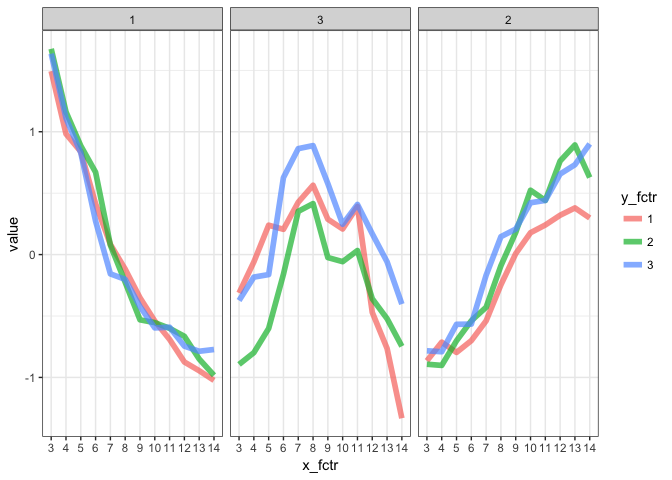
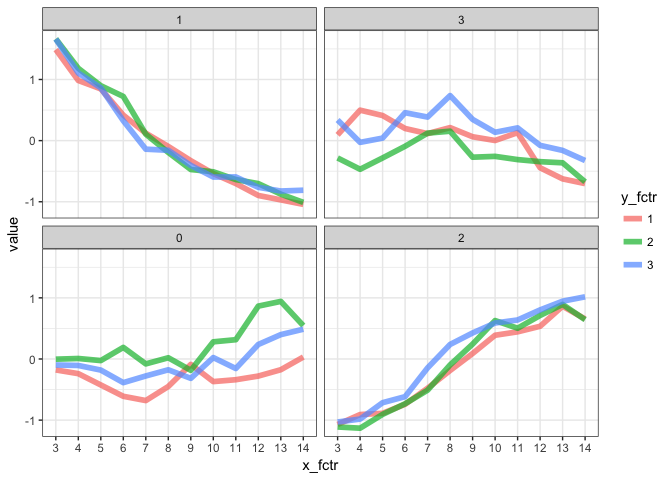
170929

diff --git a/README.md b/README.md
@@ -5,12 +5,9 @@ cornet
 ------------
 
 ``` r
-#install.packages("devtools") # もしなければ
+install.packages("devtools") 
 devtools::install_github("shkonishi/cornet")
 ```
-
-    ## Skipping install of 'cornet' from a github remote, the SHA1 (16ffbf21) has not changed since last install.
-    ##   Use `force = TRUE` to force installation
 
 関数及び外部データ一覧
 ----------------------
@@ -51,12 +48,9 @@ dat[1:6,1:6]; dim(dat)
 
 ``` r
 res <- cornet::cluster_mat(dat = dat, distm = "spearman", clm = "average",
-                           column = 5:ncol(dat), method_dycut = "hybrid",
+                           column = 5:ncol(dat), method_dycut = "tree",
                            x_fctr = dat$days, y_fctr = dat$runs, rep_fctr = dat$reps)
 ```
-
-    ##  ..cutHeight not given, setting it to 268000  ===>  99% of the (truncated) height range in dendro.
-    ##  ..done.
 
 ![](README_files/figure-markdown_github-ascii_identifiers/unnamed-chunk-4-1.png)
 
@@ -66,16 +60,16 @@ head(res$dynamic_cut)
 ```
 
     ## gene266 gene372 gene572 gene906 gene201 gene894 
-    ##       1       2       2       2       1       1
+    ##       3       2       2       2       1       1
 
 ``` r
 # クラスタ別のデータフレーム
 sapply(res$cluster_dat, dim)
 ```
 
-    ##        1   2   3
-    ## [1,] 108 108 108
-    ## [2,]  96  82  22
+    ##        1   3   0   2
+    ## [1,] 108 108 108 108
+    ## [2,]  87  31  28  54
 
 ``` r
 # クラスタ別の
@@ -104,51 +98,67 @@ lapply(res.clm, function(x)x[1:6,])
 
     ## $`1`
     ##         x_id    y_id mic        mas mev      mcn      micr2      gmic
-    ## 4425 gene204 gene655   1 0.03285807   1 2.000000 0.05284526 1.0000000
-    ## 4485  gene67 gene519   1 0.01908699   1 3.000000 0.05036932 0.9935214
-    ## 4460 gene179 gene519   1 0.04402342   1 3.000000 0.06798504 0.9942813
-    ## 4470 gene789  gene67   1 0.04047976   1 3.584963 0.05791981 0.9806749
-    ## 4457 gene179  gene67   1 0.01189086   1 3.000000 0.09046485 0.9930227
-    ## 4484  gene67 gene371   1 0.09622638   1 3.000000 0.02788684 0.9865954
+    ## 3714 gene204 gene655   1 0.03285807   1 2.000000 0.05284526 1.0000000
+    ## 3738  gene67 gene519   1 0.01908699   1 3.000000 0.05036932 0.9935214
+    ## 3731 gene179 gene519   1 0.04402342   1 3.000000 0.06798504 0.9942813
+    ## 3732 gene789  gene67   1 0.04047976   1 3.584963 0.05791981 0.9806749
+    ## 3728 gene179  gene67   1 0.01189086   1 3.000000 0.09046485 0.9930227
+    ## 3737  gene67 gene371   1 0.09622638   1 3.000000 0.02788684 0.9865954
     ##           tic   pearson  spearman
-    ## 4425 18.12556 0.9732188 0.9794221
-    ## 4485 17.94552 0.9744900 0.9627502
-    ## 4460 17.61939 0.9654092 0.9593205
-    ## 4470 17.51823 0.9706082 0.9639506
-    ## 4457 17.49004 0.9536955 0.9626930
-    ## 4484 17.36597 0.9859580 0.9648080
-    ## 
-    ## $`2`
-    ##         x_id    y_id       mic        mas       mev      mcn       micr2
-    ## 3170 gene850 gene558 0.9744918 0.02346228 0.9744918 3.807355 0.008202131
-    ## 3186 gene491 gene558 1.0000000 0.01791730 1.0000000 4.000000 0.059638626
-    ## 3169 gene850 gene491 0.9744918 0.06201446 0.9744918 3.321928 0.052296549
-    ## 2871 gene507 gene558 1.0000000 0.09008929 1.0000000 3.000000 0.250265011
-    ## 2999 gene572 gene900 1.0000000 0.03026810 1.0000000 3.584963 0.141137013
-    ## 3135 gene651 gene558 1.0000000 0.03673405 1.0000000 4.000000 0.123150137
-    ##           gmic      tic   pearson  spearman
-    ## 3170 0.9343362 17.28197 0.9830003 0.9613498
-    ## 3186 0.9452102 16.93374 0.9697223 0.9770309
-    ## 3169 0.9407437 16.76802 0.9603100 0.9584441
-    ## 2871 0.9935214 16.48217 0.8658724 0.8620424
-    ## 2999 0.9611421 16.45482 0.9267486 0.8917850
-    ## 3135 0.9404114 16.26148 0.9364026 0.9300066
+    ## 3714 18.12556 0.9732188 0.9794221
+    ## 3738 17.94552 0.9744900 0.9627502
+    ## 3731 17.61939 0.9654092 0.9593205
+    ## 3732 17.51823 0.9706082 0.9639506
+    ## 3728 17.49004 0.9536955 0.9626930
+    ## 3737 17.36597 0.9859580 0.9648080
     ## 
     ## $`3`
     ##        x_id    y_id       mic        mas       mev      mcn      micr2
-    ## 204 gene380 gene132 0.7558046 0.13125066 0.7558046 2.584963 0.06480325
-    ## 112 gene530 gene498 0.6459352 0.11888400 0.6459352 2.000000 0.10039683
-    ## 197 gene398 gene132 0.7145259 0.22761319 0.7145259 2.584963 0.19113752
-    ## 189 gene917 gene132 0.5175286 0.07059585 0.5175286 2.000000 0.02622865
-    ## 188 gene917 gene380 0.4971026 0.09883919 0.4971026 2.000000 0.04236234
-    ## 180 gene805 gene132 0.5859004 0.15385737 0.5859004 2.584963 0.15300142
-    ##          gmic       tic   pearson  spearman
-    ## 204 0.6789852 11.021268 0.8312649 0.8333095
-    ## 112 0.5718684  9.450314 0.7386057 0.7332495
-    ## 197 0.6046873  9.192770 0.7234558 0.7442625
-    ## 189 0.4661657  7.869230 0.7009279 0.6823287
-    ## 188 0.4671553  7.828284 0.6743443 0.6715158
-    ## 180 0.5013435  7.721901 0.6579506 0.6860061
+    ## 133 gene698 gene380 0.7878513 0.08065127 0.7878513 2.584963 0.14646347
+    ## 438 gene380 gene132 0.7558046 0.13125066 0.7558046 2.584963 0.06480325
+    ## 134 gene698 gene132 0.7189312 0.06435604 0.7189312 2.584963 0.05946409
+    ## 31  gene826  gene62 0.7056530 0.04210850 0.7056530 2.584963 0.06088894
+    ## 80   gene62 gene380 0.6711388 0.05596903 0.6711388 2.584963 0.07683509
+    ## 88  gene266 gene698 0.7124452 0.16418719 0.7124452 2.584963 0.05858157
+    ##          gmic       tic    pearson   spearman
+    ## 133 0.7074252 11.867889 -0.8008670 -0.8240114
+    ## 438 0.6789852 11.021268  0.8312649  0.8333095
+    ## 134 0.6274129 10.673320 -0.8120758 -0.7986891
+    ## 31  0.6211462 10.319357  0.8029720  0.6412873
+    ## 80  0.5832082  9.912205 -0.7709110 -0.7772633
+    ## 88  0.6230904  9.821684  0.8086183  0.8068250
+    ## 
+    ## $`0`
+    ##        x_id    y_id       mic        mas       mev      mcn      micr2
+    ## 259 gene331 gene485 0.6061471 0.02817255 0.6061471 2.000000 0.18818752
+    ## 227 gene754 gene331 0.5795805 0.03755272 0.5795805 2.000000 0.17060362
+    ## 226 gene754 gene944 0.5517252 0.05668312 0.5517252 2.000000 0.04258118
+    ## 373 gene958 gene241 0.5642428 0.08287044 0.5642428 2.000000 0.11962117
+    ## 244 gene944 gene485 0.5685831 0.07183381 0.5685831 2.584963 0.10390175
+    ## 228 gene754 gene485 0.5377324 0.14018524 0.5377324 2.000000 0.03607627
+    ##          gmic      tic   pearson  spearman
+    ## 259 0.5296532 8.852612 0.6464979 0.7024589
+    ## 227 0.5013204 8.207523 0.6395130 0.7129288
+    ## 226 0.4767254 8.033038 0.7135433 0.7166157
+    ## 373 0.4690225 7.565197 0.6667995 0.6806330
+    ## 244 0.4354489 7.338720 0.6816754 0.6876542
+    ## 228 0.4733235 7.324082 0.7082768 0.6938847
+    ## 
+    ## $`2`
+    ##         x_id    y_id       mic        mas       mev      mcn       micr2
+    ## 1280 gene850 gene558 0.9744918 0.02346228 0.9744918 3.807355 0.008202131
+    ## 1296 gene491 gene558 1.0000000 0.01791730 1.0000000 4.000000 0.059638626
+    ## 1279 gene850 gene491 0.9744918 0.06201446 0.9744918 3.321928 0.052296549
+    ## 981  gene507 gene558 1.0000000 0.09008929 1.0000000 3.000000 0.250265011
+    ## 1109 gene572 gene900 1.0000000 0.03026810 1.0000000 3.584963 0.141137013
+    ## 1245 gene651 gene558 1.0000000 0.03673405 1.0000000 4.000000 0.123150137
+    ##           gmic      tic   pearson  spearman
+    ## 1280 0.9343362 17.28197 0.9830003 0.9613498
+    ## 1296 0.9452102 16.93374 0.9697223 0.9770309
+    ## 1279 0.9407437 16.76802 0.9603100 0.9584441
+    ## 981  0.9935214 16.48217 0.8658724 0.8620424
+    ## 1109 0.9611421 16.45482 0.9267486 0.8917850
+    ## 1245 0.9404114 16.26148 0.9364026 0.9300066
 
 ### matoedge
 
